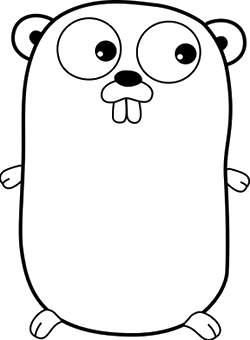
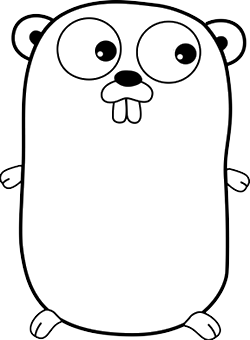
website: add transparency to gopher images

diff --git a/content/static/gen.go b/content/static/gen.go
@@ -46,7 +46,7 @@ var files = []string{
 	"images/cloud-download.svg",
 	"images/go-logo-blue.svg",
 	"images/home-gopher.png",
-	"images/footer-gopher.jpg",
+	"images/footer-gopher.png",
 	"images/minus.gif",
 	"images/play-link.svg",
 	"images/plus.gif",
